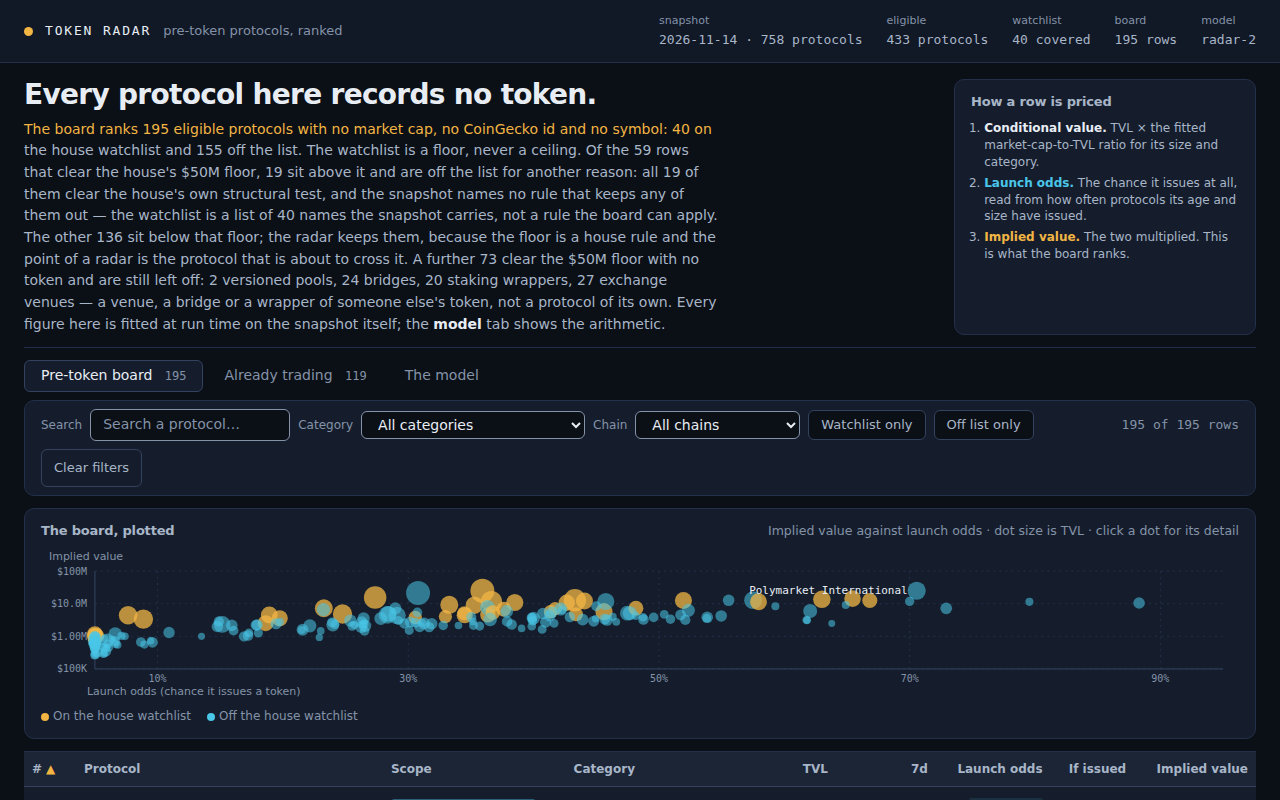
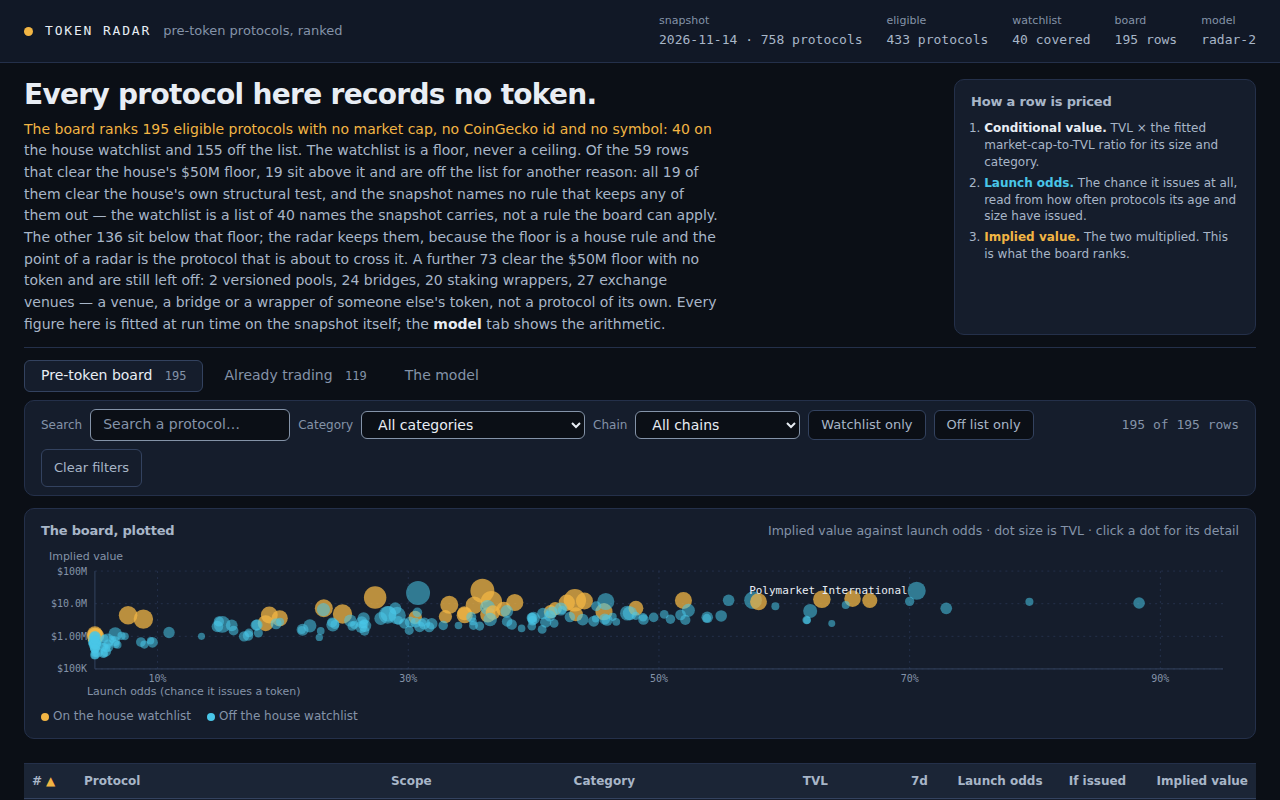
The cover's fold cut the tops off the first table row's letters
The cover is the page at 1280x800, and the page scrolls, so the fold at y=800
is a hard edge exactly as the detail shot's clip is. It fell 5px into the
first table row's glyphs: 143 lit pixels in the last row. The judge saw the
TOPS of a row's letters and nothing else of it.

The fix is a gap, not a scroll. Scrolling the page to clear the fold was
measured and rejected: the headline needs at most 16px of scroll to stay
whole and the fold needs at least 24px, so scrolling always costs the
headline. Widening the gap between the plot and the table by one spacing
step (--c 12px + --d 16px -> --e 24px) moves the whole table down 4px and
the fold lands in the padding ABOVE row 1's text: the column headers are the
last thing in frame, and nothing is cut.

Measured on the rendered pixels, not assumed:
  cover fold, before   143 lit pixels in the last row
  cover fold, after      0 lit pixels in the last row

The same gap also cleaned the FILTERED shot's fold, from 200 lit pixels to
34: the last row it cuts is a row whose every figure reads correctly
(42.6449%, $25.204M, $10.7M), so it reads as "the list continues" rather
than as a wrong figure -- which is a different thing from the detail shot's
sliced cost line, and the gate is written to tell them apart.

A new gate, with the same control as the detail shot's:
  no shot cuts a line of text at its edge: the cover ends on whitespace
  (0 lit pixels in the last row of 1280x800)
[…]

Changed region(s): [[0.0, 0.9375, 1.0, 1.0]]

diff --git a/dashboard/theme.css b/dashboard/theme.css
@@ -99,7 +99,7 @@ td{padding:var(--b) var(--b);vertical-align:middle}
 .pill.live{background:var(--l13);color:var(--live)}
 .muted,.cond,.controls .result,.rk,.tab .count,.plot-head .hint,.plot-legend,.sheet .slug,.controls .q::placeholder{color:var(--i3)}
 .empty{text-align:center;color:var(--i3);padding:var(--f)}
-.plot-wrap{padding:var(--c) var(--d);margin-bottom:var(--c)}
+.plot-wrap{padding:var(--c) var(--d);margin-bottom:var(--e)}
 .plot-head{display:flex;justify-content:space-between;align-items:baseline;gap:var(--d);margin-bottom:var(--b)}
 .plot-head .hint{font-size:12.5px}
 .plot{position:relative;height:150px}
